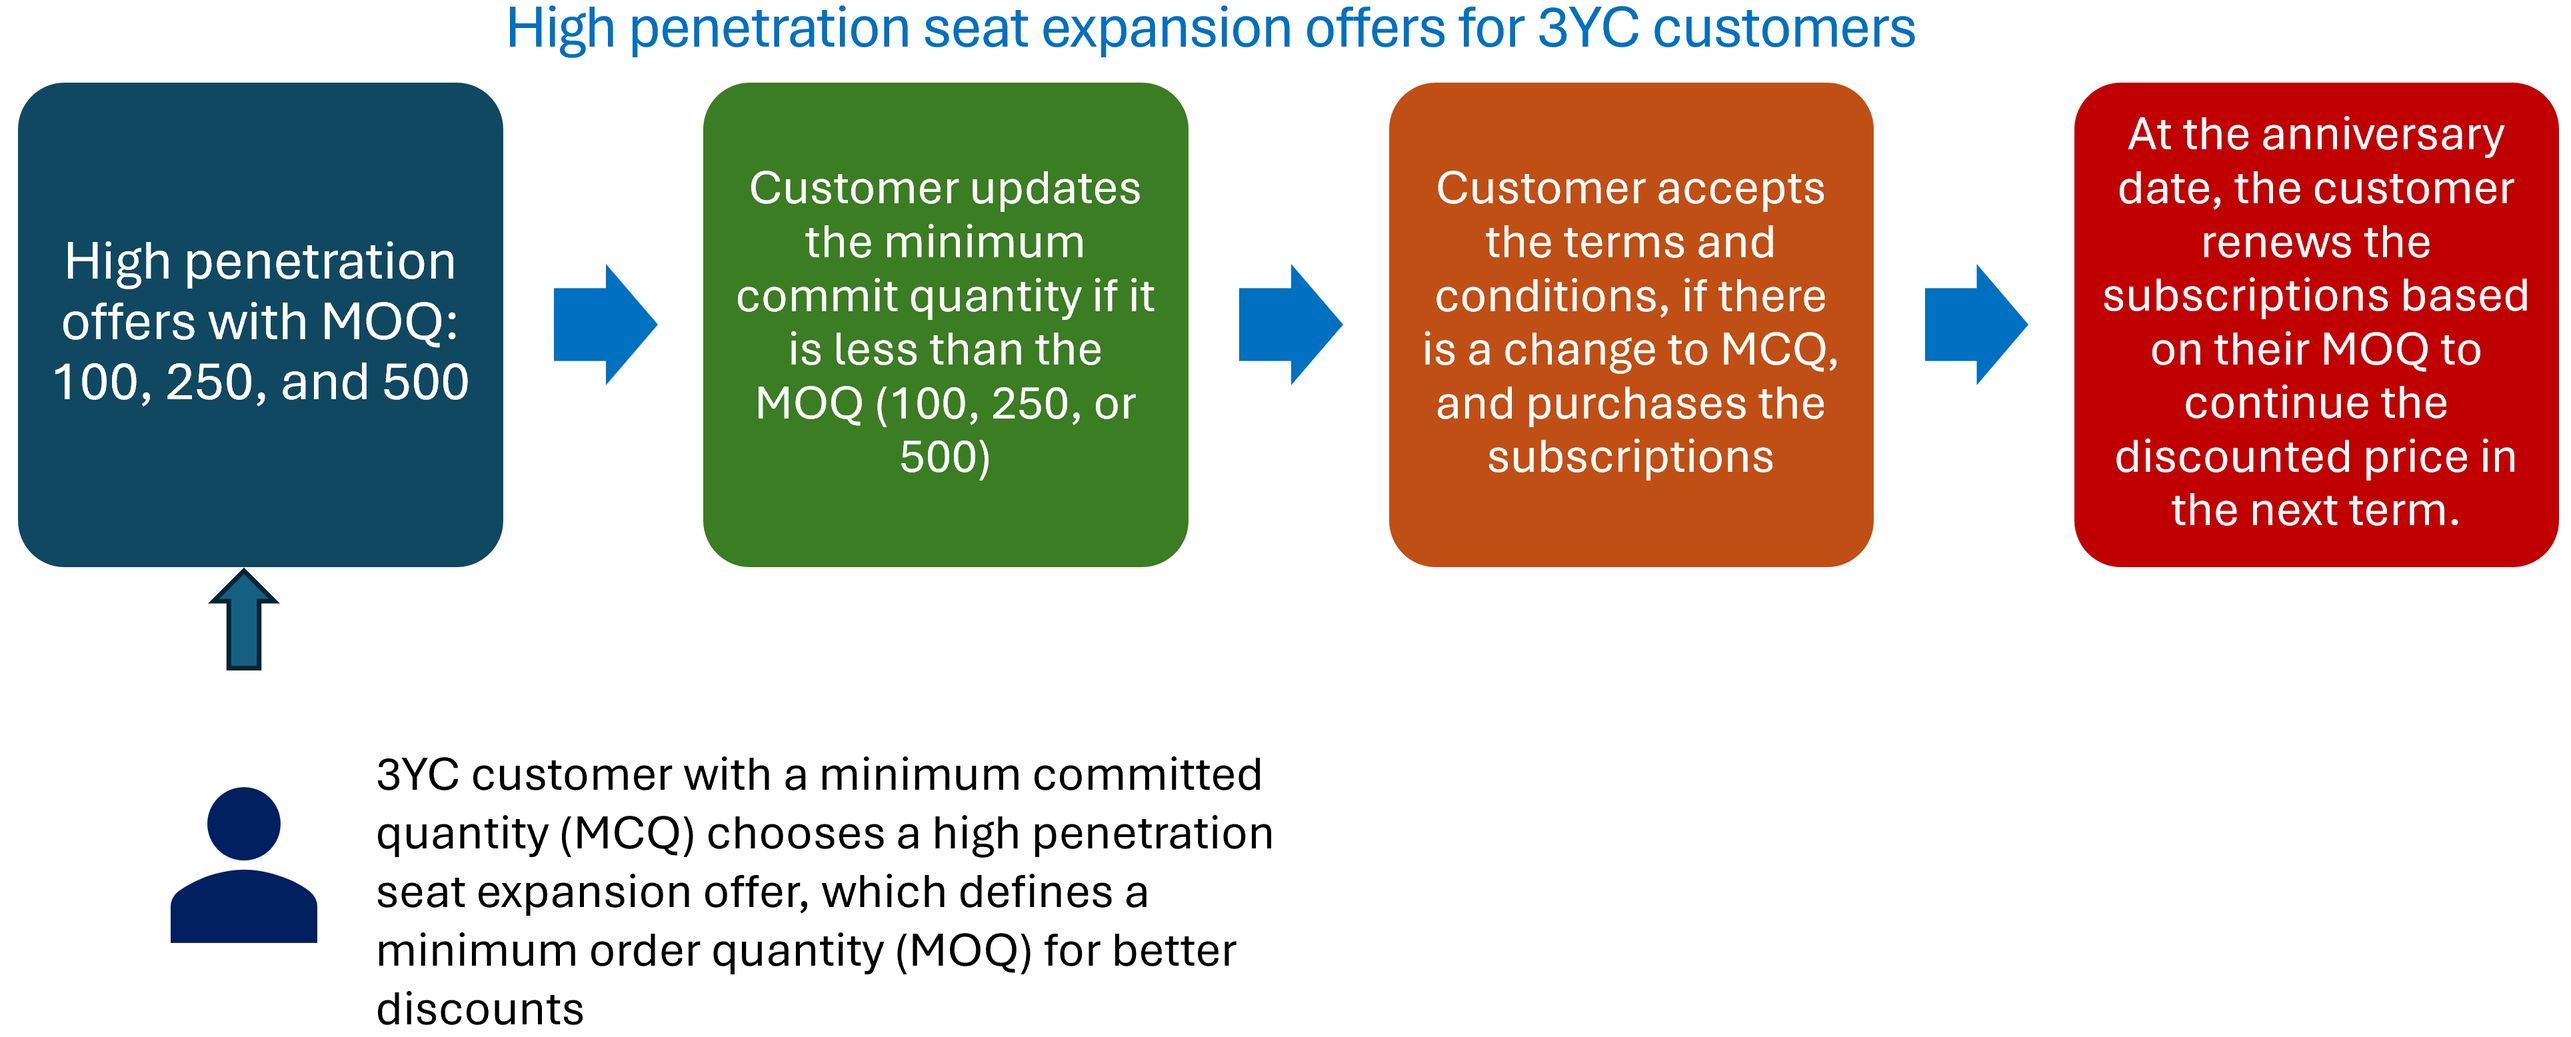
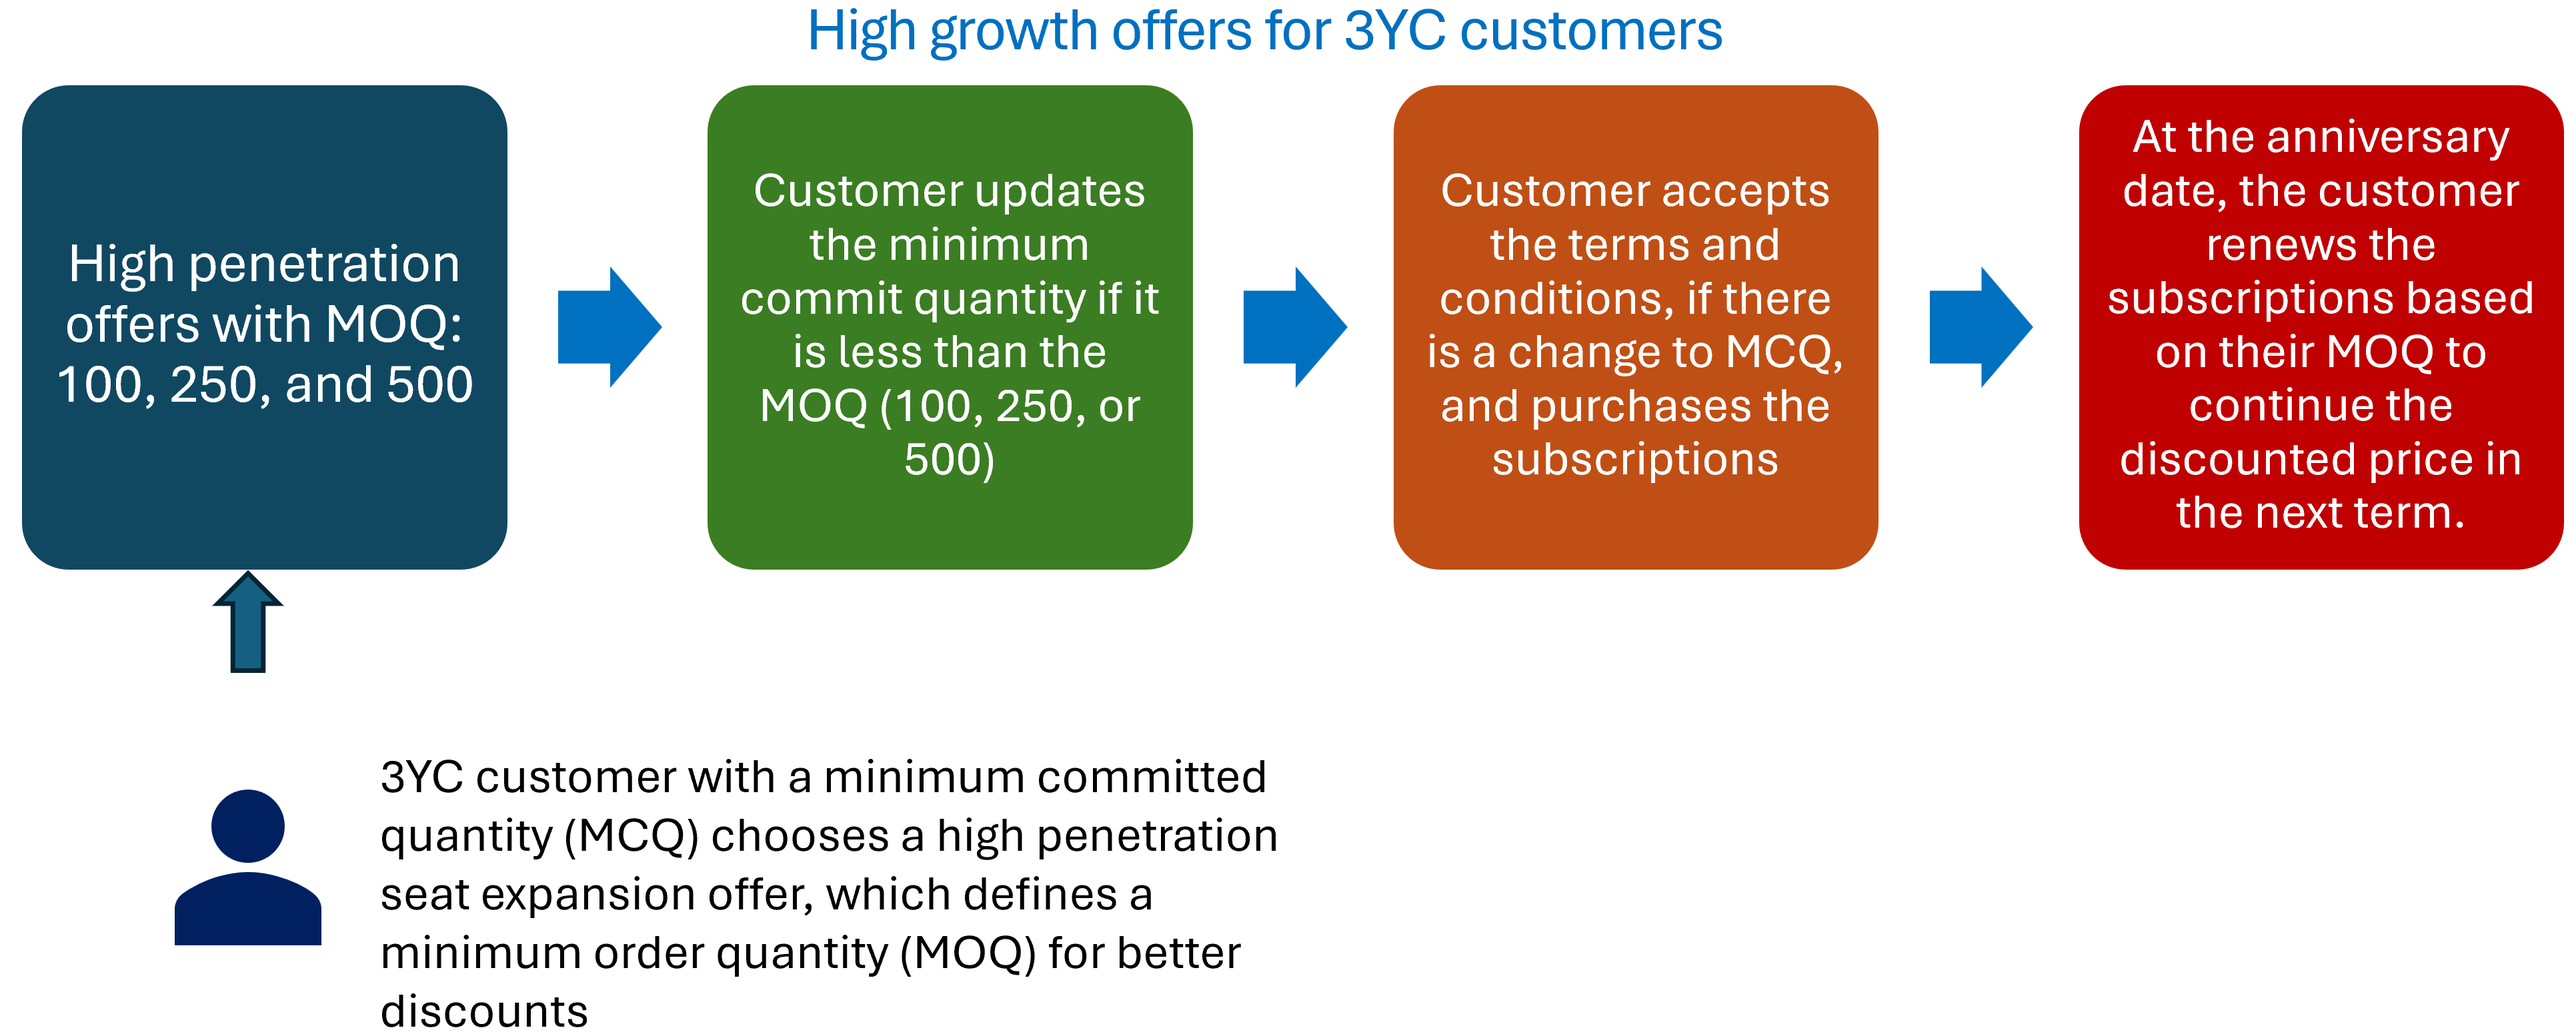
Minor fixes to the source.

diff --git a/src/pages/docs/customer_account/high_pen_scenarios.md b/src/pages/docs/customer_account/high_pen_scenarios.md
@@ -16,13 +16,13 @@ The following list gives an overview of possible scenarios. You may encounter ot
 
 | At AD                                                    | Next AD                                | Decision on providing MOQ offer                         |
 |----------------------------------------------------------|----------------------------------------|---------------------------------------------------------|
-| - **Current quantity of Acrobat Pro:** 5 <br /> - **Renewal quantity:** MOQ 100 | - Renew subscriptions based on MOQ 100 | The customer can get an MOQ offer for the product. |
+| - **Current quantity of Acrobat Pro:** 5 <br /> - **Renewal quantity:** MOQ 100 | - The customer renews subscriptions based on MOQ 100  | The customer gets the MOQ offer for the product.  |
 
 ### Example 2
 
 | At AD - 7                                                   | AD - 3                                | At AD | Decision on providing MOQ offer                         |
 |----------------------------------------------------------|--|----------------------------------------|---------------------------------------------------------|
-| - **Current quantity of Acrobat Pro:** 5 <br /> - **Renewal quantity:** MOQ 100 | - Added 50 Acrobat Pro base offer seats. The current quantity becomes 55. | - Renew subscription based on MOQ 100. Do not penalize the customer for the extra 5 seats. | The customer can get an MOQ offer for the product. |
+| - **Current quantity of Acrobat Pro:** 5 <br /> - **Renewal quantity:** MOQ 100 | - The customer added 50 Acrobat Pro base offer seats. The current quantity becomes 55.  The current quantity becomes 55. | - The customer renews subscription based on MOQ 100.  | The customer can get an MOQ offer for the product. No penalty for the extra 5 seats.|
 
 ## Scenario 2: Renew subscription with no mid-term addition, and the customer isn't eligible
 
@@ -30,7 +30,7 @@ The following list gives an overview of possible scenarios. You may encounter ot
 
 | At AD                                                    | Next AD                                | Decision on providing MOQ offer                         |
 |----------------------------------------------------------|----------------------------------------|---------------------------------------------------------|
-|   - **Current quantity of Acrobat Pro: 120** <br /> - **Renewal quantity:** 30 | - Not opting for MOQ and renewal quantity is 30. | The base offer will be renewed instead of the MOQ offer. |
+|   - **Current quantity of Acrobat Pro: 120** <br /> - **Renewal quantity:** 30 | - The customer is not opting for MOQ, and renewal quantity is 30. | The base offer will be renewed instead of the MOQ offer. |
 
 ## Scenario 3: Renew subscription with mid-term seat addition
 
@@ -38,7 +38,7 @@ The following list gives an overview of possible scenarios. You may encounter ot
 
 | At AD                                                   |AD+6 months | At AD | Decision on providing MOQ offer                         |
 |----------------------------------------------------------|--|----------------------------------------|---------------------------------------------------------|
-|- **Current quantity of Acrobat Pro: 30** <br /> - **Renewal quantity:** 25 <br /> - **MOQ:** Null | - Mid-term purchase: MOQ 100 <br /> - Number of subscriptions becomes 130 <br />  - Renewal quantity: 100 (based on the MOQ they opted) | - 100 quantity invoiced with MOQ 100 | The customer will be renewed with 100 MOQ because the renewal quantity earlier opted will be overridden by MOQ quantity because the earlier opted renewal quantity is not sufficient to maintain the MOQ |
+|- **Current quantity of Acrobat Pro: 30** <br /> - **Renewal quantity:** 25 <br /> - **MOQ:** Null | - Mid-term purchase: MOQ 100 <br /> - Number of subscriptions becomes 130 <br />  - Renewal quantity: 100 (based on the MOQ they opted) | - 100 licenses are invoiced with MOQ 100 | The customer will be renewed with 100 MOQ because the renewal quantity earlier opted will be overridden by MOQ quantity because the earlier opted renewal quantity is not sufficient to maintain the MOQ |
 
 ### Example 2
 
@@ -52,4 +52,4 @@ The following list gives an overview of possible scenarios. You may encounter ot
 
 | At AD                                                   | AD + 3 months      | AD + 6 months| At AD | Decision on providing MOQ offer                         |
 |----------------------------------------------------------|--|----------------------------------------|---------------------------------------------------------|--|
-|- **Current quantity of Acrobat Pro:** 20 <br /> - **MOQ:** Null |   - Purchased MOQ 100 <br /> - Current quantity: 120 <br /> - Renewal quantity 120 |  - Purchased MOQ 250 with 250 licenses <br /> - Current quantity: 370 <br /> - Renewal quantity: 250  |- 250 quantity invoiced with 250 MOQ  | Customers can purchase MOQ offers mid-term, even if they don’t already hold MOQ. The highest MOQ needs to be retained for renewal setting.|
+|- **Current quantity of Acrobat Pro:** 20 <br /> - **MOQ:** Null |   - Purchased MOQ 100 <br /> - Current quantity: 120 <br /> - Renewal quantity 120 |  - Purchased MOQ 250 with 250 licenses <br /> - Current quantity: 370 <br /> - Renewal quantity: 250  |- 250 licesnses are invoiced with 250 MOQ  | Customers can purchase MOQ offers mid-term, even if they don’t already hold MOQ. The highest MOQ needs to be retained for renewal setting.|

diff --git a/src/pages/docs/customer_account/high_volume_discounts.md b/src/pages/docs/customer_account/high_volume_discounts.md
@@ -14,7 +14,7 @@ Here are the high growth offers available based on the MOQ:
 - MOQ 250
 - MOQ 500
 
-**Note:** The terminology "high growth seat expansion offer" and "MOQ offer" are used interchangeably in this document.
+**Note:** The terminology "high growth offer" and "MOQ offer" are used interchangeably in this document.
 
 Customers can add more licenses or seats either mid-term or at the anniversary date. Each new addition or renewal will benefit from the same discount rate as their original MOQ. For example, if an organization initially purchases a high growth offer of MOQ 100  and later adds 50 more seats in the same MOQ, the additional seats will also receive the same discount rate defined for the MOQ offer. Similarly, if the organization with an MOQ of 100 adds 300 more licenses, bringing the total to 400, the new purchases will still receive the same discount defined for the MOQ 100 offer. Therefore, if growth is anticipated, starting with a higher MOQ offer is advisable.
 Read more about various [high-growth offer scenarios](./high_pen_scenarios.md).
@@ -48,7 +48,7 @@ Enterprise and Team customers can take advantage of high growth offers if they m
 
 ## High growth offer workflows
 
-Adobe defines the high growth seat expansion offers, and the corresponding offer ID is shared with the partners. For example:
+Adobe defines the high growth offers, and the corresponding offer ID is shared with the partners. For example:
 
 - 65304479CA14X12 = Acrobat Pro 100 MOQ
 - 65304479CA14Y12 = Acrobat Pro 250 MOQ
